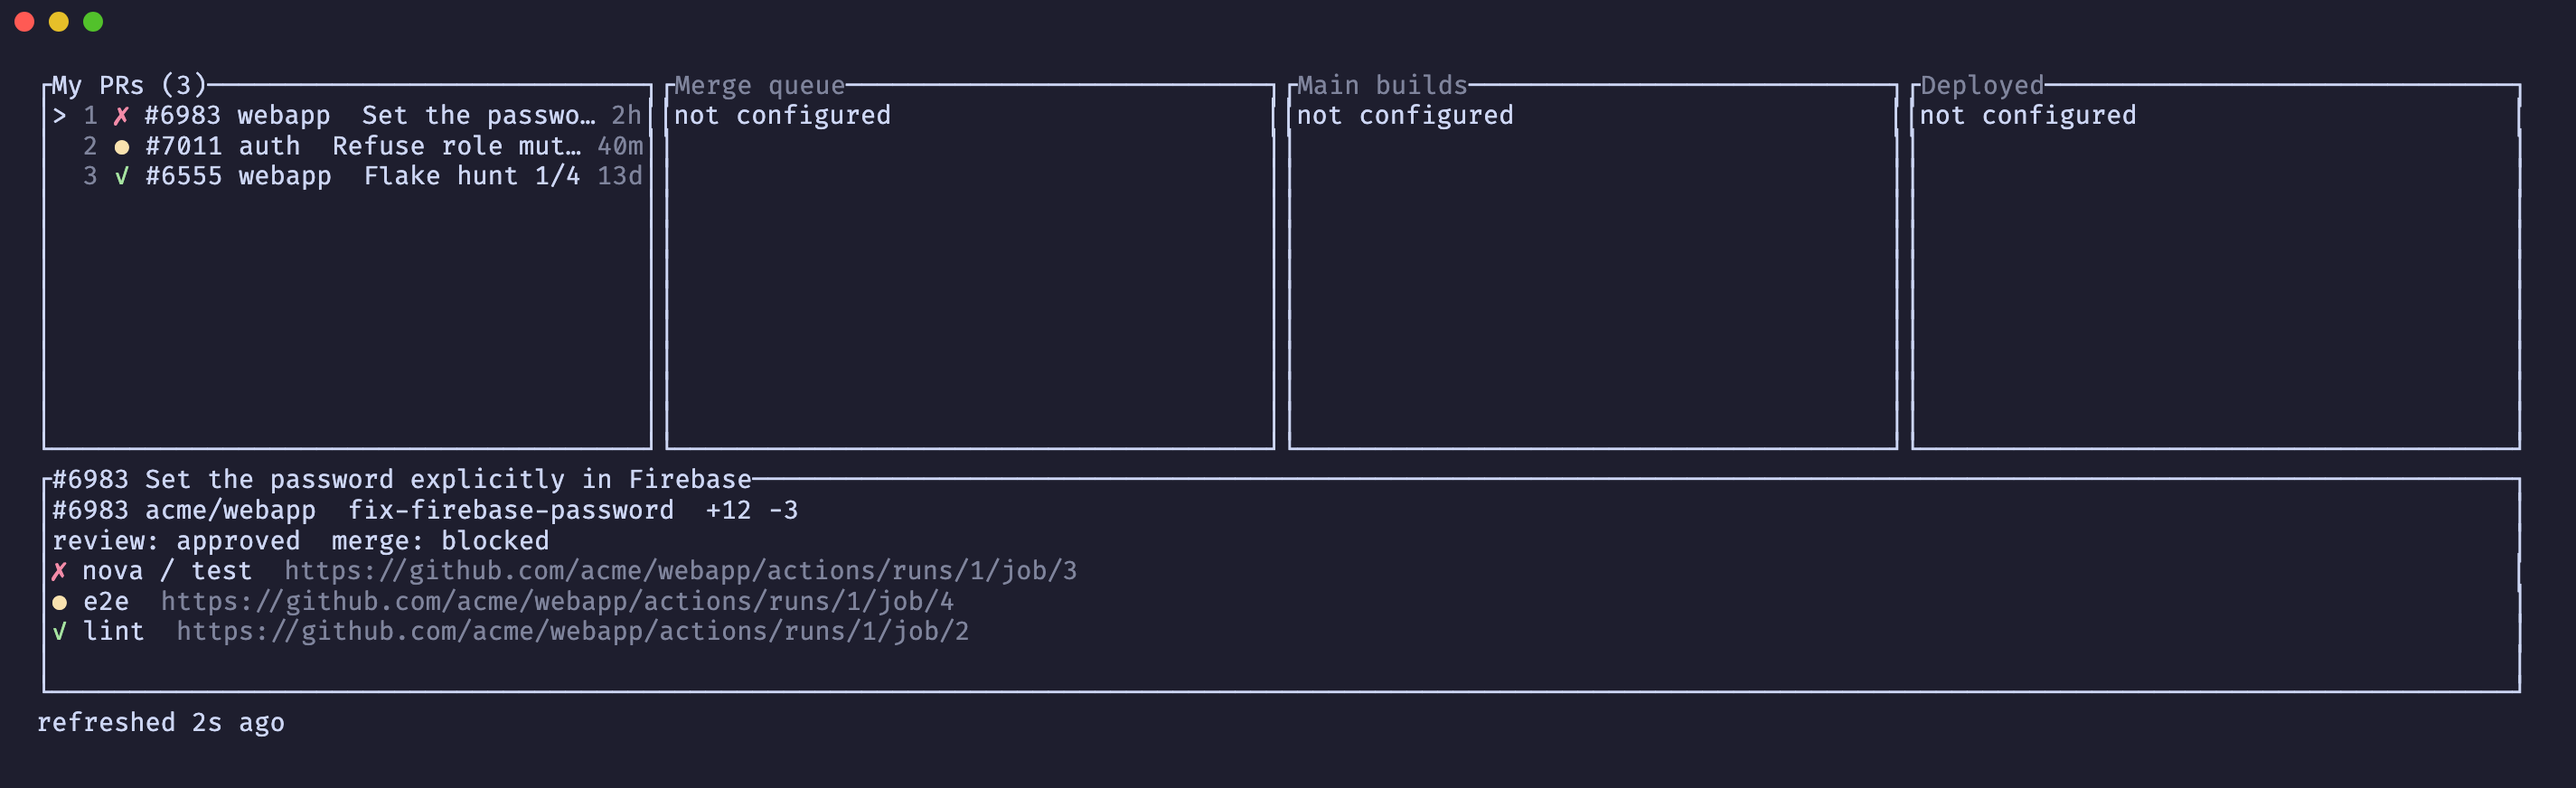
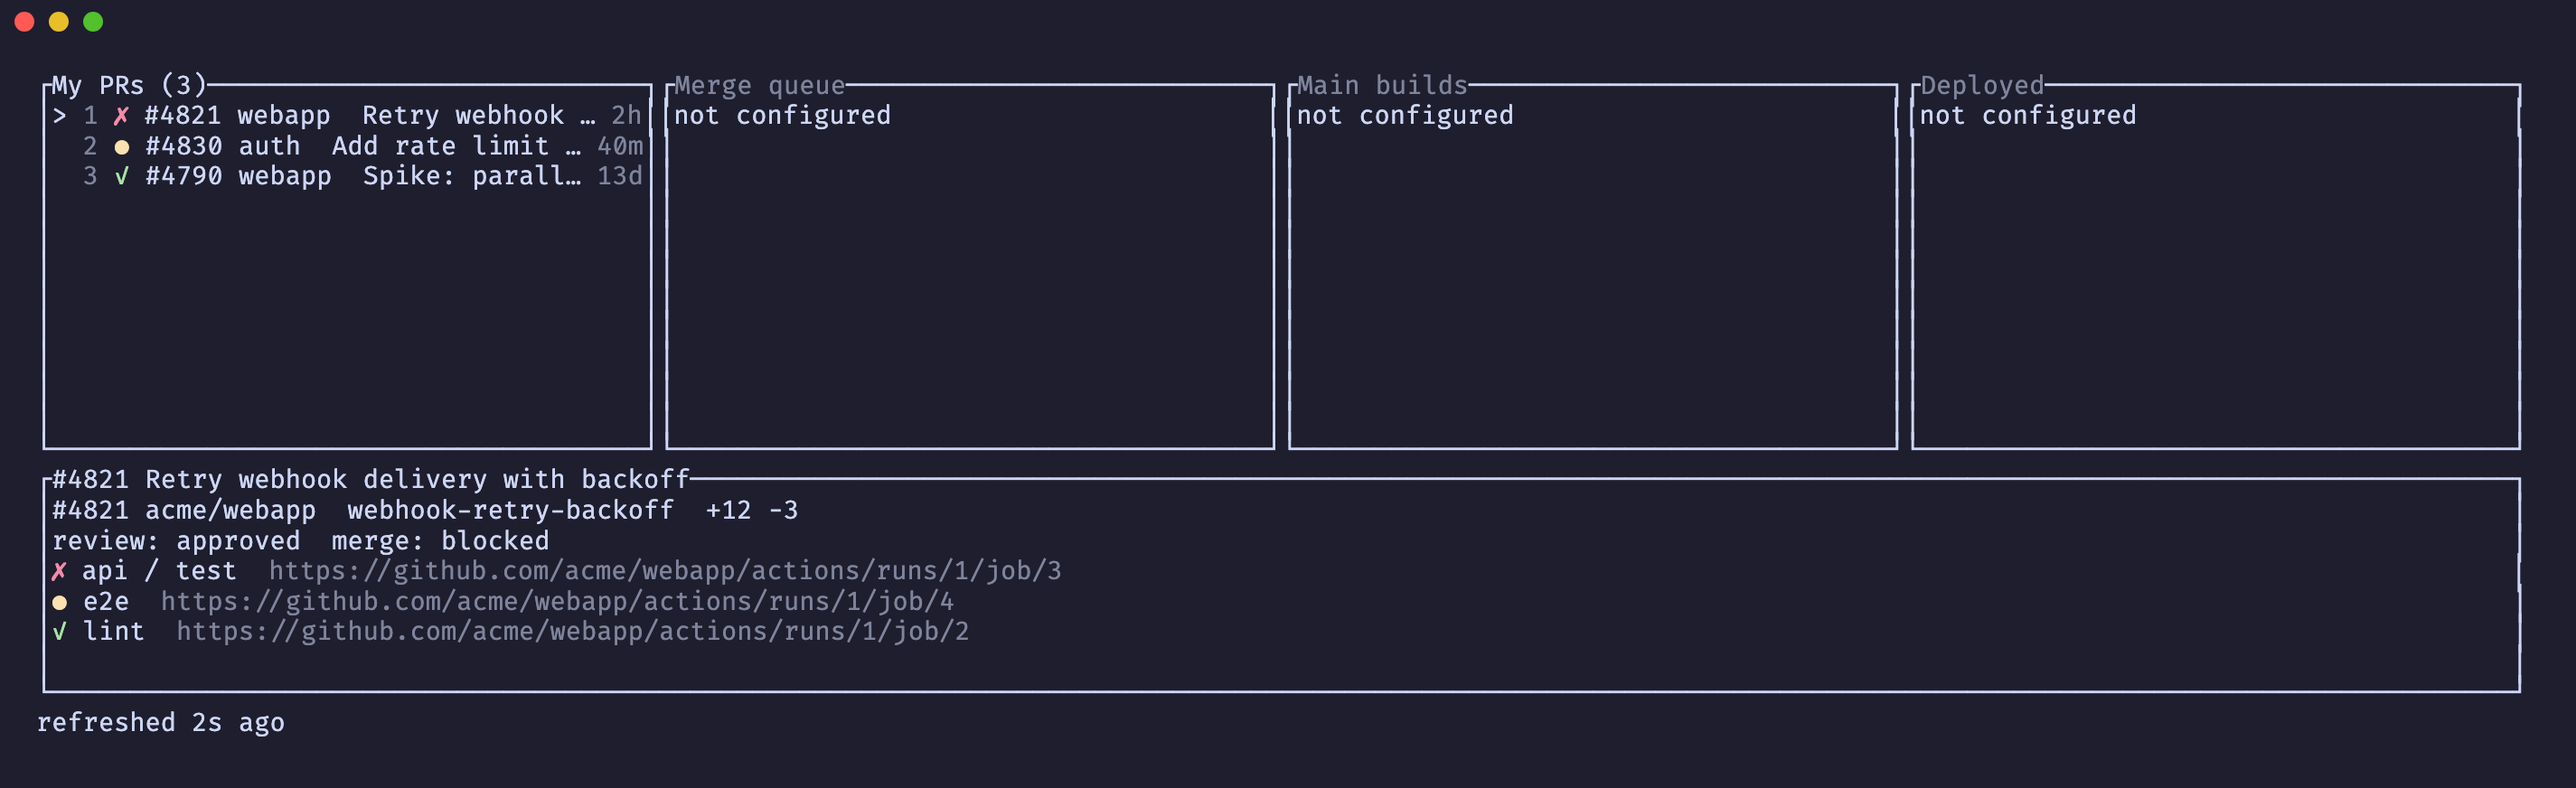
chore: scrub employer data, add the scrub gate, backfill working agreements into AGENTS.md

diff --git a/PLAN.md b/PLAN.md
@@ -32,10 +32,10 @@ per PR: `number title isDraft reviewDecision mergeStateStatus statusCheckRollup{
 mergeQueueEntry{position state} updatedAt url headRefName repository{nameWithOwner} additions
 deletions comments{totalCount} reviews reviewRequests`. Check contexts are a union of `CheckRun`
 (`name status conclusion detailsUrl`) and `StatusContext` (`context state targetUrl`). Your four
-open PRs are drafts in <repo> with `mergeStateStatus: UNKNOWN` (GitHub computes it lazily);
+open PRs are drafts with `mergeStateStatus: UNKNOWN` (GitHub computes it lazily);
 treat UNKNOWN as "—", not as an error.
 
-**Merge queue** (`<owner>/<repo>`): `repository.mergeQueue{ url configuration{mergeMethod
+**Merge queue** (a large monorepo with a merge queue): `repository.mergeQueue{ url configuration{mergeMethod
 maximumEntriesToBuild minimumEntriesToMerge mergingStrategy} entries(first:20){ nodes{ position
 state enqueuedAt estimatedTimeToMerge solo jump headCommit{oid statusCheckRollup{state}}
 pullRequest{number title author{login}} } } }`. Config today: SQUASH, build 5, merge 1, ALLGREEN.
@@ -43,7 +43,7 @@ Entry `state` ∈ AWAITING_CHECKS | LOCKED | MERGEABLE | QUEUED | UNMERGEABLE. Q
 moment; merge-group workflow runs are visible with `gh run list --event merge_group` on branches
 `gh-readonly-queue/main/pr-<N>-<base sha>` with `displayTitle` = workflow name (useless for the
 row; use the PR from the queue entry, or parse `pr-<N>` from the branch for runs whose entry has
-already left the queue). Rulesets endpoint returns nothing (classic protection), so the GraphQL
+already left the queue). Rulesets endpoint returned nothing for the probed repo (classic protection), so the GraphQL
 queue object is the only source.
 
 **Main builds**: `CI/CD` (`.github/workflows/cicd.yml`) runs on `push` to `main`, `merge_group`
@@ -56,8 +56,7 @@ rest. `history(first:10)` GraphQL with `associatedPullRequests` is the one-query
 
 **Deployed**: Argo CD image-updater pins a 40-hex sha per env in
 `<gitops repo>/<app>/{dev,staging,prod}/image-updater.yaml` (`image.tag`), `newest-build`
-strategy; Api namespace `api`. kubectl contexts:
-`teleport.<employer>.io-{production,staging,uat}-cluster` (staging current). `tsh status`
+strategy. kubectl contexts come from teleport, one per environment (staging current). `tsh status`
 shows the session **expired**, so a fetcher failure is the normal case, not the exception: the
 row shows the error and the app keeps running. GitHub Deployments API only records `staging`.
 Repo env names: Production, staging, Preview, copilot. sha → PR via `commits/{sha}/pulls`;
@@ -97,7 +96,7 @@ src/text.rs              truncate() with ellipsis (port from tmux-agents)
 src/open.rs              trait Opener { open(url); copy(text) }; system impl (`open`/`xdg-open`, `pbcopy`/`xclip`)
 scripts/homebrew-formula.sh, scripts/gates.sh (fmt, clippy -D warnings, test, test --ignored; fails loudly, never piped through tail)
 tests/support/mod.rs     Harness { terminal: TestBackend, app, gh: FakeGithub, kube: FakeKube, opener: FakeOpener }, key()/ctrl()/data()/tick(), screen(), cell(x,y), row builders
-tests/fixtures/*.json    verbatim `gh` output captured from <repo> (prs, queue, runs, commit pulls); refreshed when GitHub changes shape
+tests/fixtures/*.json    verbatim `gh` output captured from a public repo (prs, queue, runs, commit pulls); refreshed when GitHub changes shape
 tests/{prs,queue,builds,deployed,layout,config,cli,snapshots,e2e}.rs
 ```
 
@@ -143,7 +142,7 @@ system = "api"
 [[repo.deploy.env]]
 name = "staging"
 fetcher = "kubectl"
-context = "<kube context staging>"
+context = "<kube context>"
 namespace = "api"
 deployment = "api"
 ```
@@ -192,7 +191,7 @@ Outside-in order (`tests/prs.rs` drives `run()` with scripted inputs; one failin
 
 1. Empty data → column titled `My PRs (0)`, body `no open pull requests`; `q` quits.
 2. Loading state before the first `Data` input → `fetching…` in the body; a `Data` input replaces it.
-3. Two PRs → rows `#4821 ✓ Retry webhook delivery…  <repo>  2h`; first highlighted; `1-9` jump.
+3. Two PRs → rows `#4821 ✓ webapp  Retry webhook…  2h`; first highlighted; `1-9` jump.
    Row = number · check glyph (✓ success, ✗ failure, ● pending, ○ none) · title (truncated) ·
    repo · review glyph (approved / changes requested / review required) · draft marker · age.
 4. `j/k`, `Down/Up`, `g g`, `G` move and clamp (port from tmux-agents).
@@ -239,8 +238,9 @@ Phase 1 exit: retro (see checkpoints), `AGENTS.md` updated, v0.1.0 tagged, plan 
 - All 16 behaviours shipped on `phase-1-my-prs` (PR #2): 18 TUI tests, 8 snapshots, 4 parse,
   4 gh-seam, 2 fetch, 1 opener, 5 cli, 5 config, 2 ignored e2e (real binary, scratch tmux,
   `gh` shim). e2e also runs on the Linux CI runner.
-- Fixture is public data only (PR #1 of this repo): the repository is public, so no
-  <employer> PR titles or logins may land in `tests/fixtures/` or `docs/`.
+- Fixture is public data only (PR #1 of this repo): the repository is public, so no employer
+  data (org, repo names, PR titles, logins, hosts) may land anywhere in it; `scripts/scrub-check.sh`
+  gates against a local denylist.
 - Live shapes seen: `mergeStateStatus` ∈ {UNKNOWN, BEHIND, BLOCKED, CLEAN}; `reviewDecision`
   null on repos without required reviews; `StatusContext` has `state` and no `status`.
 - Traps: tmux pane login shells rebuild PATH (`respawn-pane -e PATH=…` silently ran the real
@@ -275,7 +275,7 @@ Phase 1 exit: retro (see checkpoints), `AGENTS.md` updated, v0.1.0 tagged, plan 
 
 ## Phase 4 — Deployed column (kubectl fetcher)
 
-- `[[repo.deploy]]` config as sketched; one row per env: `prod  #4780 (bob) feat: rate limits…
+- `[[repo.deploy]]` config as sketched; one row per env: `prod  #4790 (bob) Spike: parallel…
   ↓3 · 6d`, where `↓3` = commits behind main computed from the phase 3 list (or `—` when the sha
   is older than the list). `kube.rs` runs `kubectl --context C -n NS get deploy D -o
   jsonpath={.spec.template.spec.containers[0].image}`; tag after the last `:` must be 40 hex,
@@ -307,12 +307,12 @@ Phase 1 exit: retro (see checkpoints), `AGENTS.md` updated, v0.1.0 tagged, plan 
   `gh attestation verify conveyor-aarch64-apple-darwin.tar.gz --repo piacsek/conveyor`.
 - Phase 1: `conveyor` inside a 200-column pane shows four columns, the PR column matches
   `gh search prs --author @me --state open`; `Enter` opens the PR in the browser; `y` then paste;
-  `p` shows the 40 checks of #4792; unplug the network (or `GH_TOKEN=bad`) and press `r`: the
+  `p` lists every check of a PR; unplug the network (or `GH_TOKEN=bad`) and press `r`: the
   column goes `⚠`, rows stay, app stays up. Resize to 80 columns: tabs.
-- Phase 2: enqueue a throwaway PR in <repo> (or wait for someone's) and compare the column
+- Phase 2: enqueue a throwaway PR in the configured repo (or wait for someone's) and compare the column
   with `https://github.com/<owner>/<repo>/queue/main`.
 - Phase 3: compare with `gh run list --repo <owner>/<repo> --workflow cicd.yml --branch main --event push --limit 10`.
-- Phase 4: `tsh login` then compare with `kubectl -n api get deploy api -o jsonpath=…`; then
+- Phase 4: `tsh login` then compare with `kubectl -n <ns> get deploy <name> -o jsonpath=…`; then
   let the session expire and confirm the row degrades to an error without blanking.
 - Snapshot diffs read and committed after every intentional layout change
   (`INSTA_UPDATE=always cargo test --test snapshots`).

diff --git a/AGENTS.md b/AGENTS.md
@@ -11,6 +11,15 @@ environment runs. One column per stage, side by side; a focused column,
 actions on the selected row. `conveyor config` prints the effective config.
 `PLAN.md` holds the phase history, retros, and the backlog.
 
+## This repository is public
+
+No employer data, ever: no org or repo names, PR numbers or titles, logins, hostnames, cluster
+or kube-context names, ticket prefixes. Fixtures come from this repo's own public PRs;
+screenshots and TUI tests use invented `acme/*` data; plans and docs use `<owner>/<repo>`
+placeholders. `scripts/scrub-check.sh` (first gate) fails when a tracked file matches the
+local denylist at `~/.config/conveyor-dev/denylist` (kept outside the repo on purpose; the
+check is skipped where the file is absent, so CI does not enforce it).
+
 ## Layout
 
 ```
@@ -26,6 +35,7 @@ src/open.rs      Opener trait; SystemOpener (`open`/`xdg-open`, `pbcopy`/`xclip`
 src/text.rs      truncate/pad_right with `…`, age()
 src/queries/     GraphQL documents, `include_str!`ed
 scripts/gates.sh              the quality gates; fails loudly, never pipe it through tail
+scripts/scrub-check.sh        denylist grep over tracked files (see "This repository is public")
 scripts/dev-install.sh        release build symlinked as ~/.local/bin/conveyor-dev
 scripts/ship.sh               gates + dev-install + commit + push, aborts on any failure
 scripts/homebrew-formula.sh   prints the tap formula for a released version
@@ -46,7 +56,7 @@ tests/           outside-in: `tests/cli.rs` runs the real binary; TUI tests driv
   Entry `state` ∈ AWAITING_CHECKS | LOCKED | MERGEABLE | QUEUED | UNMERGEABLE. The
   merge-group workflow runs (`gh run list --event merge_group`) live on branches
   `gh-readonly-queue/main/pr-<N>-<base sha>`; their `displayTitle` is the workflow name.
-  Rulesets return nothing for <repo> (classic protection); the GraphQL object is the source.
+  Rulesets returned nothing for the probed repo (classic protection); the GraphQL object is the source.
 - **Main builds**: `repos/{r}/actions/workflows/<file>/runs?branch=main&event=push`. Many
   workflows run on main (`issue_comment` bots, per-app deploys), so the build workflow is
   per-repo config (default `CI/CD`). Squash titles end in `(#N)`; `repos/{r}/commits/{sha}/pulls`
@@ -98,6 +108,27 @@ Whenever behaviour changes, check that `README.md` still covers it and is still 
 a default, a subcommand, a config key. The README must stay terse: one line per feature,
 defaults in the TOML block, no prose that repeats the code. Depth belongs here.
 
+## Working agreements
+
+All guidelines live in this file, versioned with the code; nothing binding lives only in an
+agent's private memory. When the user says "update the guidelines", edit this file.
+
+- **Cadence.** Work runs under `/tdd autonomous`: one branch per phase (`phase-N-<topic>`),
+  one commit per task through `scripts/ship.sh`, no pause between tasks, a pause only for the
+  end-of-phase retro. Retro outcomes go to `PLAN.md` (facts, decisions) and here (rules).
+- **Draft PR first.** The first ship on a branch opens the draft PR assigned to the user;
+  every later commit lands on that PR. Before merging, re-read the PR title and body and fix
+  what went stale without rewording the user's edits.
+- **Screenshots in PRs.** A PR with a visible change embeds the `docs/*.png` screenshots in
+  its body as commit-pinned `raw.githubusercontent.com` URLs.
+- **Merging and releasing.** Rebase-merge the phase PR into `main` when CI is green, then tag
+  from `main` (see Releasing). Never push to `main` directly except the very first bootstrap
+  commit of an empty repository, and never force-push.
+- **Two binaries.** `conveyor` on PATH is the Homebrew release; `conveyor-dev` is the working
+  tree (`scripts/dev-install.sh`). Never `cargo install` the crate into a PATH directory.
+- **Plan before code.** Each phase starts from the plan in `PLAN.md`, is re-planned after the
+  previous retro, and its "Verified facts" section is checked against live tools before use.
+
 ## Development
 
 Strict TDD: one failing test, minimal code, refactor. Outside-in: start from the binary or
@@ -114,10 +145,7 @@ cargo test -- --ignored        # e2e: real binary with a `gh` shim first on PATH
 ```
 
 Ship with `scripts/ship.sh "<message>"`: gates, `dev-install.sh`, commit, push, all under
-`set -e`, refusing to run on `main`. The first ship on a branch also opens the draft PR
-(`gh pr create --draft --assignee @me`); a branch must never carry commits without one.
-A PR with a visible change embeds the `docs/*.png` screenshots in its body, as commit-pinned
-`raw.githubusercontent.com` URLs so they outlive the branch. Do not hand-roll the chain: the interactive shell here is
+`set -e`, refusing to run on `main`, opening the draft PR on the first push of a branch. Do not hand-roll the chain: the interactive shell here is
 zsh, where `PIPESTATUS` is undefined and `test "" -eq 0` is true, so a `gates.sh | grep` guard
 silently passed a clippy failure into a commit on 2026-09-10.
 
